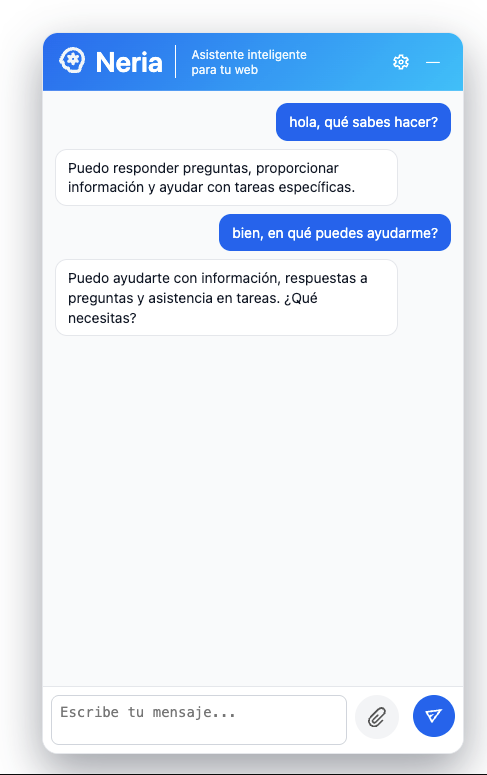
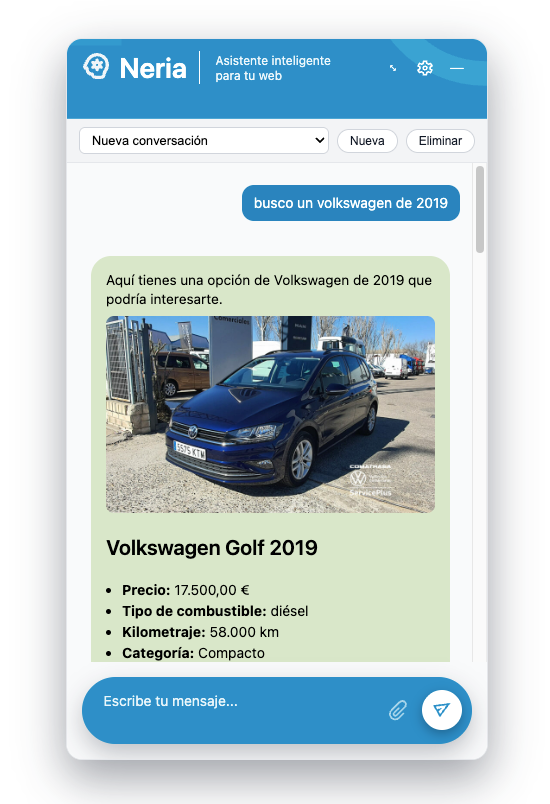
feat: first upload

diff --git a/src/components/sections/Intro.tsx b/src/components/sections/Intro.tsx
@@ -2,27 +2,72 @@ import type { FC } from "react";
 
 export const Intro: FC = () => {
   return (
-    <div className="section-wrapper py-5">
-      <div className="container">
-        <div className="row justify-content-center">
-          <div className="col-lg-8">
-            <h2 className="section-title">
-              ¿Por qué un chatbot corporativo como NERIA?
-            </h2>
-            <p className="section-text">
-              La forma en la que los equipos se relacionan con clientes y
-              empleados ha cambiado. La atención 24/7, en múltiples canales y en
-              varios idiomas ya no es opcional.
-            </p>
-            <p className="section-text">
-              NERIA combina modelos de lenguaje de última generación con el
-              contexto de tu organización para responder de forma precisa,
-              segura y alineada con tu marca. No es un chatbot genérico: es un
-              asistente entrenado para tu negocio.
-            </p>
+    <>
+      <div className="section-wrapper py-5">
+        <div className="container">
+          <div className="row justify-content-center">
+            <div className="col-lg-8">
+              <h2 className="section-title">
+                ¿Por qué un chatbot corporativo como NERIA?
+              </h2>
+              <p className="section-text">
+                La forma en la que los equipos se relacionan con clientes y
+                empleados ha cambiado. La atención 24/7, en múltiples canales y
+                en varios idiomas ya no es opcional.
+              </p>
+              <p className="section-text">
+                NERIA combina modelos de lenguaje de última generación con el
+                contexto de tu organización para responder de forma precisa,
+                segura y alineada con tu marca. No es un chatbot genérico: es un
+                asistente entrenado para tu negocio.
+              </p>
+            </div>
           </div>
         </div>
       </div>
-    </div>
+      <div className="section-wrapper bg-light-2 py-5">
+        <div className="container  p-4 mt-5">
+          <div className="row justify-content-center">
+            <div className="col-lg-4">
+              <img
+                src="./productos-cars.webp"
+                alt="Búsqueda dinámica de productos"
+              />
+            </div>
+            <div className="col-lg-8">
+              <h2 className="section-title">Búsqueda dinámica de productos</h2>
+              <div className="d-flex justify-content-start">
+                <div className="card p-4">
+                  <ul className="section-text ">
+                    <li>Neria realiza la consulta en vuestro endpoint.</li>
+                    <li>Interpreta la respuesta.</li>
+                    <li>
+                      Y devuelve una ficha de producto completa, clara y
+                      estructurada (nombre, precio, disponibilidad,
+                      características, imágenes, variantes, etc.).
+                    </li>
+                  </ul>
+                </div>
+                <div className="card p-4 ms-3">
+                  <ul className="section-text ">
+                    <li>
+                      Neria puede comparar productos encontrados con otros
+                      propuestos.
+                    </li>
+                  </ul>
+                </div>
+              </div>
+
+              <p className="section-text text-white mt-3">
+                NERIA combina modelos de lenguaje de última generación con el
+                contexto de tu organización para responder de forma precisa,
+                segura y alineada con tu marca. No es un chatbot genérico: es un
+                asistente entrenado para tu negocio.
+              </p>
+            </div>
+          </div>
+        </div>
+      </div>
+    </>
   );
 };

diff --git a/index.html b/index.html
@@ -1,12 +1,60 @@
 <!DOCTYPE html>
-<html lang="en">
+<html lang="es">
   <head>
     <meta charset="UTF-8" />
-    <script src="https://www.google.com/recaptcha/api.js" async defer></script>
 
-    <link rel="icon" type="image/svg+xml" href="/ia/favicon.svg" />
+    <!-- SEO básico -->
+    <title>Neria · Asistente de IA conversacional | WebEntorn</title>
+    <meta
+      name="description"
+      content="Neria es el asistente de IA conversacional de WebEntorn. Integra modelos como OpenAI, Grok, DeepSeek o Gemini para atender consultas, automatizar tareas y conectarse con tus sistemas corporativos."
+    />
     <meta name="viewport" content="width=device-width, initial-scale=1.0" />
-    <title>neria-website</title>
+    <meta name="robots" content="index,follow" />
+    <link rel="canonical" href="https://www.webentorn.com/ia/" />
+
+    <!-- Favicon -->
+    <link rel="icon" type="image/svg+xml" href="/ia/favicon.svg" />
+
+    <!-- Open Graph (LinkedIn, Facebook, etc.) -->
+    <meta
+      property="og:title"
+      content="Neria · Asistente de IA conversacional"
+    />
+    <meta
+      property="og:description"
+      content="Integra un chatbot de IA en tu web o intranet con Neria de WebEntorn. Atiende consultas 24/7, conecta con tus APIs y ofrece respuestas contextuales a ciudadanos y clientes."
+    />
+    <meta property="og:type" content="website" />
+    <meta property="og:url" content="https://www.webentorn.com/ia/" />
+    <!-- Cambia esta ruta por la imagen real que quieras usar -->
+    <meta
+      property="og:image"
+      content="https://www.webentorn.com/ia/neria-og-webentorn.png"
+    />
+    <meta property="og:site_name" content="WebEntorn" />
+    <meta property="og:locale" content="es_ES" />
+
+    <!-- Twitter Card -->
+    <meta name="twitter:card" content="summary_large_image" />
+    <meta
+      name="twitter:title"
+      content="Neria · Asistente de IA conversacional"
+    />
+    <meta
+      name="twitter:description"
+      content="Chatbot de IA para empresas y administraciones públicas. Despliegue rápido, multi-proveedor de LLM y conexión con tus sistemas."
+    />
+    <meta
+      name="twitter:image"
+      content="https://www.webentorn.com/ia/og-neria.png"
+    />
+
+    <!-- Color de la barra en móviles (opcional) -->
+    <meta name="theme-color" content="#0b1736" />
+
+    <!-- reCAPTCHA -->
+    <script src="https://www.google.com/recaptcha/api.js" async defer></script>
 
     <!-- Polyfill mínimo para que el bundle del chatbot no reviente con `process` -->
     <script>

diff --git a/src/components/sections/HowItWorks.tsx b/src/components/sections/HowItWorks.tsx
@@ -5,16 +5,16 @@ export const HowItWorks: FC = () => {
     <div className="section-wrapper bg-dark py-5">
       <div className="container">
         <h2 className="section-title text-light mb-4">
-          Cómo funciona el despliegue
+          Infraestructura flexible
         </h2>
         <div className="row gy-4">
           <div className="col-md-4">
             <div className="step-card h-100 p-4 rounded-4">
               <span className="step-number">1</span>
-              <h3 className="h5 mt-3">Descubrimiento</h3>
+              <h3 className="h5 mt-3">Servidores cloud</h3>
               <p className="text-muted mb-0">
-                Analizamos casos de uso, volumen de consultas y sistemas
-                existentes para definir el alcance del chatbot.
+                Soporte para almacenamiento en S3 (AWS, MinIO o compatibles)
+                para logs, adjuntos o contenidos generados.
               </p>
             </div>
           </div>
@@ -22,10 +22,10 @@ export const HowItWorks: FC = () => {
           <div className="col-md-4">
             <div className="step-card h-100 p-4 rounded-4">
               <span className="step-number">2</span>
-              <h3 className="h5 mt-3">Entrenamiento e integración</h3>
+              <h3 className="h5 mt-3">Integración</h3>
               <p className="text-muted mb-0">
-                Conectamos tus fuentes de información, diseñamos flujos
-                conversacionales y configuramos la seguridad y el acceso.
+                Integración con entornos CI/CD DevOps (GitHub Actions, GitLab
+                CI, Azure DevOps) para despliegues automatizados.
               </p>
             </div>
           </div>
@@ -33,10 +33,10 @@ export const HowItWorks: FC = () => {
           <div className="col-md-4">
             <div className="step-card h-100 p-4 rounded-4">
               <span className="step-number">3</span>
-              <h3 className="h5 mt-3">Piloto y escalado</h3>
+              <h3 className="h5 mt-3">Google y agentes de monitorización</h3>
               <p className="text-muted mb-0">
-                Lanzamos un piloto controlado, medimos resultados y ajustamos el
-                modelo antes de escalar a toda la organización.
+                Trabajamos también con Google Cloud, tanto para orquestación
+                como para servicios gestionados.
               </p>
             </div>
           </div>

diff --git a/src/components/sections/Hero.tsx b/src/components/sections/Hero.tsx
@@ -1,6 +1,7 @@
 // src/components/sections/Hero.tsx
 import type { FC } from "react";
 import heroImage from "../../assets/neria-capture.png";
+import heroBackground from "../../assets/backg.jpeg";
 
 export const Hero: FC = () => {
   const scrollTo = (id: string) => {
@@ -13,7 +14,15 @@ export const Hero: FC = () => {
   const handleScrollToContact = () => scrollTo("contact");
 
   return (
-    <div className="hero-section py-5 py-lg-6">
+    <div
+      className="hero-section py-5 py-lg-6"
+      style={{
+        backgroundImage: `url(${heroBackground})`,
+        backgroundSize: "cover",
+        backgroundPosition: "center",
+        backgroundRepeat: "no-repeat",
+      }}
+    >
       <div className="container">
         <div className="row align-items-center gy-5">
           {/* Columna texto */}
@@ -34,7 +43,7 @@ export const Hero: FC = () => {
                 className="btn btn-primary btn-lg"
                 onClick={handleScrollToContact}
               >
-                Solicitar demo personalizada
+                Solicitar demo
               </button>
               <button
                 className="btn btn-outline-light btn-lg"

diff --git a/src/styles/_layout.scss b/src/styles/_layout.scss
@@ -16,7 +16,25 @@
 }
 
 .hero-section {
-  background: radial-gradient(120% 150% at 0% 0%, $neria-primary-soft, #ffffff);
+  position: relative;
+  // el gradient ahora como overlay suave
+  &::before {
+    content: "";
+    position: absolute;
+    inset: 0;
+    background: radial-gradient(
+      120% 150% at 0% 0%,
+      $neria-primary-soft,
+      rgba(0, 0, 0, 0.6)
+    );
+    pointer-events: none;
+  }
+
+  // para que el contenido quede encima del overlay
+  > .container {
+    position: relative;
+    z-index: 1;
+  }
 }
 
 .hero-title {
@@ -115,4 +133,22 @@
 
 .text-light-50 {
   color: rgba(249, 250, 251, 0.7);
+}
+
+@media (max-width: 514px) {
+  .ia-chatbot-panel {
+    right: 8px;
+    bottom: 36px; // 24px (margen) + 64px (bubble) + 8px (gap)
+
+    width: calc(100vw - 16px);
+
+    // que no se coma toda la pantalla en alto
+    height: calc(100vh - 80px) !important;
+    max-height: none;
+  }
+}
+
+.bg-light-2 {
+  background-color: rgb(0, 132, 190);
+  color: #ffffff;
 }

diff --git a/src/components/Layout/Navbar.tsx b/src/components/Layout/Navbar.tsx
@@ -56,14 +56,14 @@ export const Navbar: FC = () => {
                   Casos de uso
                 </button>
               </li>
-              <li className="nav-item">
+              {/* <li className="nav-item">
                 <button
                   className="btn btn-link nav-link"
                   onClick={() => handleNavClick("pricing")}
                 >
                   Precios
                 </button>
-              </li>
+              </li> */}
               <li className="nav-item">
                 <button
                   className="btn btn-link nav-link"
@@ -81,7 +81,7 @@ export const Navbar: FC = () => {
               >
                 Solicitar demo
               </button>
-              <button className="btn btn-primary">Entrar a NERIA</button>
+              {/* <button className="btn btn-primary">Entrar a NERIA</button> */}
             </div>
           </div>
         </div>

diff --git a/src/App.tsx b/src/App.tsx
@@ -7,7 +7,7 @@ import { Intro } from "./components/sections/Intro";
 import { Features } from "./components/sections/Features";
 import { HowItWorks } from "./components/sections/HowItWorks";
 import { UseCases } from "./components/sections/UseCases";
-import { Pricing } from "./components/sections/Pricing";
+// import { Pricing } from "./components/sections/Pricing";
 import { CTAContact } from "./components/sections/CTAContact";
 import { FAQ } from "./components/sections/FAQ";
 import { ChatbotFloatingAddon } from "./components/ChatbotFloatingAddon";
@@ -38,9 +38,9 @@ const App: FC = () => {
           <UseCases />
         </section>
 
-        <section id="pricing">
+        {/* <section id="pricing">
           <Pricing />
-        </section>
+        </section> */}
 
         <section id="contact">
           <CTAContact />

diff --git a/src/components/Layout/Footer.tsx b/src/components/Layout/Footer.tsx
@@ -15,15 +15,18 @@ export const Footer: FC = () => {
             </div>
             <p className="text-muted small mb-0 mt-1">
               © {year} Automatización de atención con IA.
+              <a className="ms-3" href="https://webentorn.com" target="_blank">
+                Webentorn.com
+              </a>
             </p>
           </div>
           <div className="col-md-6 d-flex justify-content-md-end gap-3 small">
             <a href="#hero" className="text-muted">
               Inicio
             </a>
-            <a href="#pricing" className="text-muted">
+            {/* <a href="#pricing" className="text-muted">
               Precios
-            </a>
+            </a> */}
             <a href="#contact" className="text-muted">
               Contacto
             </a>

diff --git a/src/components/sections/Pricing.tsx b/src/components/sections/Pricing.tsx
@@ -4,7 +4,7 @@ export const Pricing: FC = () => {
   return (
     <div className="section-wrapper py-5">
       <div className="container">
-        <h2 className="section-title mb-3">Planes de despliegue</h2>
+        <h2 className="section-title mb-3">Planes implementación</h2>
         <p className="section-subtitle mb-5">
           Adaptamos NERIA al tamaño de tu organización y a tus canales
           preferidos.

diff --git a/src/components/sections/UseCases.tsx b/src/components/sections/UseCases.tsx
@@ -16,6 +16,10 @@ const USE_CASES = [
     description:
       "Acceso guiado a bases de conocimiento jurídicas, plantillas y criterios internos, manteniendo trazabilidad.",
   },
+  {
+    title: "Búsqueda y recomendación de productos",
+    description: "Encontrar, comparar y cotejar productos.",
+  },
 ];
 
 export const UseCases: FC = () => {
